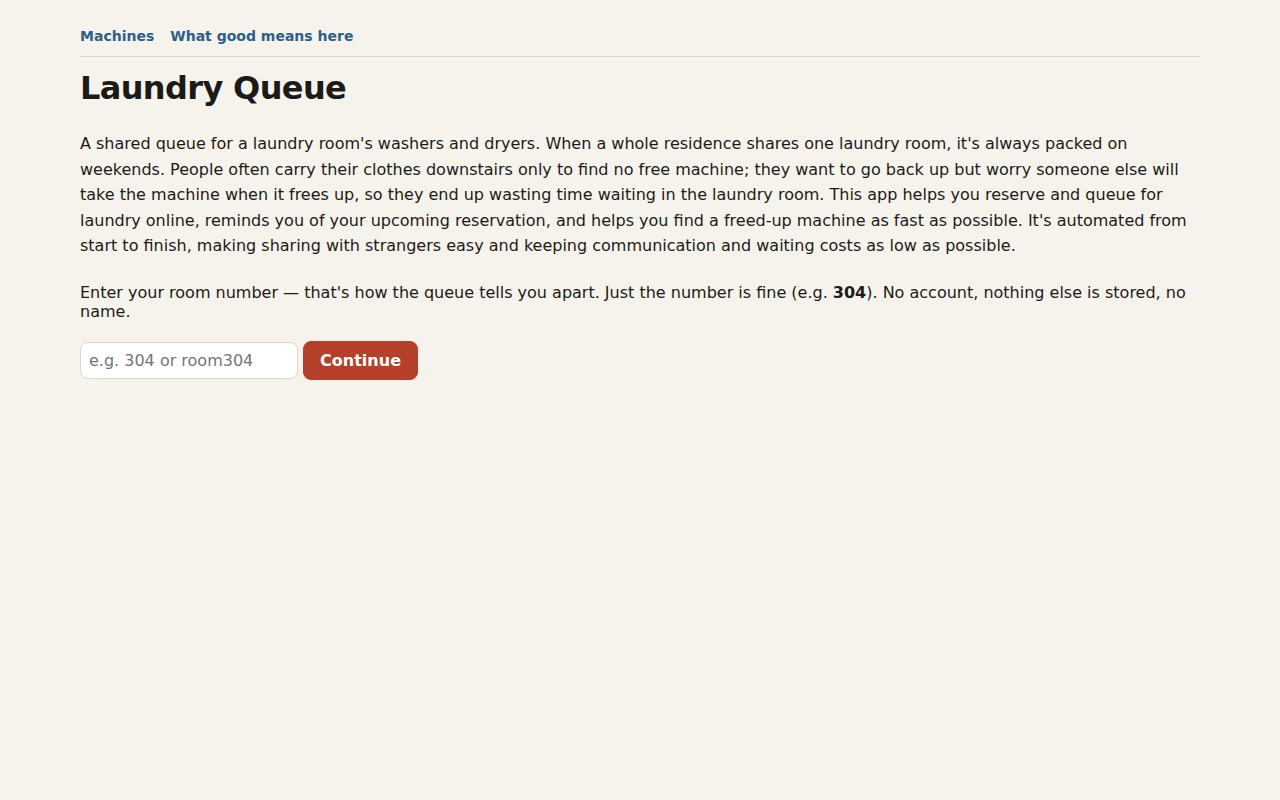
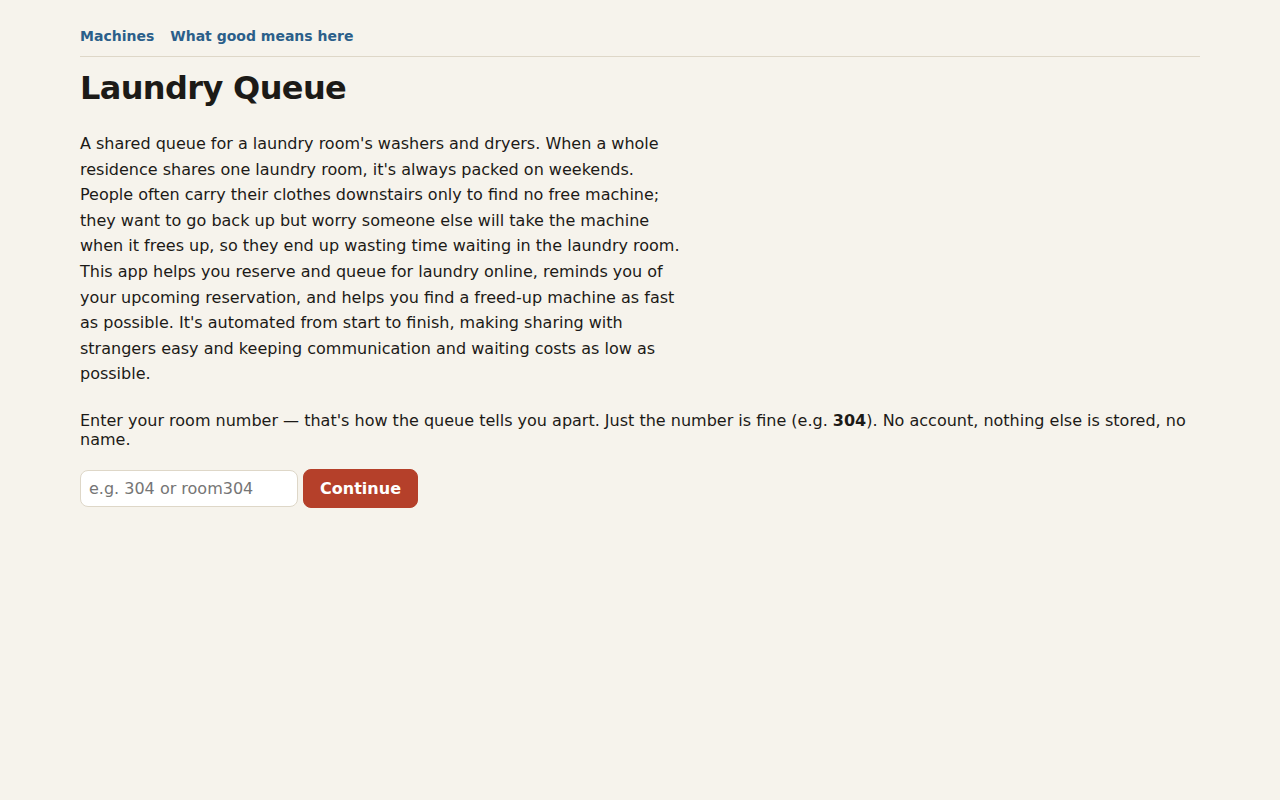
docs: handoff, extra critique round, plan.md Current state (Stage 6)
HANDOFF.md: what shipped per stage with commit hashes, what didn't
(Stage 5/fairness simulation, explicitly this run's own "first thing to
cut" — Stage 4 took the bulk of the run's time instead, as prompt.md
says it should), every call made without asking and why, Stage 1's
deliberate-break counterexample (quoted from commit 8118424), suggested
README enforced/judged lines naming their spec files, Stage 5's numbers
(none — not attempted), where the UI is still weakest, what to check by
hand on a real phone, and the Docker check result (docker isn't usable
from this WSL2 distro — WSL integration isn't enabled for Docker
Desktop's install — so only a plain local-server pnpm check run could be
confirmed green; the real docker build path still needs a by-hand check).

Extra critique round (prompt.md Stage 6.2): re-screenshotted every
"after" state, picked the two weakest per research/design-review.md's
scoring, fixed each:
- no-room (the only screen scored 2 on "does anything look like the
  generic version"): .intro had no max-width, stretching into an
  unconstrained block at 1280px. Capped at 38rem.
- offer (scored 4, not 5, on "is my status's time the first thing the
  eye lands on"): the respond-by countdown sat at body-text size inline
  in a sentence. Pulled onto its own line, text-lg, bold, --free-coloured
  (.decision-countdown) — the same "make the one timed fact legible at a
  glance" move the status hero already makes.
[…]

Changed region(s): [[0.0625, 0.1562, 0.9375, 0.5625], [0.2188, 0.5625, 0.3438, 0.6562], [0.0625, 0.5938, 0.1875, 0.625]]

diff --git a/src/views.ts b/src/views.ts
@@ -190,6 +190,11 @@ const STYLES = `
   .decision-card { background: var(--free-tint); border: 1px solid var(--free); border-radius: var(--card-radius); padding: var(--space-4); margin-bottom: var(--space-4); display: flex; align-items: center; justify-content: space-between; gap: var(--space-3); flex-wrap: wrap; }
   .decision-card form { margin: 0; }
   .decision-card select { margin-right: var(--space-2); }
+  /* research/design-review.md's extra critique round: gives the offer
+     card's one timed fact (respond-by) the same "larger, bolder figure"
+     treatment the status hero already gives its own countdown, so it's
+     legible at a glance instead of sitting at body size inside a sentence. */
+  .decision-countdown { font-size: var(--text-lg); font-weight: 700; color: var(--free); }
 
   /* crit 9: tells both sides of a move-back-one swap what happened and
      why — stays until dismissed, not a toast that fades on its own */
@@ -210,8 +215,14 @@ const STYLES = `
   .turn-alert p { margin: 0 0 var(--space-4); font-size: var(--text-lg); }
   .turn-alert form { margin: 0; display: block; }
 
-  /* the landing page's app introduction */
-  .intro { line-height: 1.6; margin-bottom: var(--space-5); }
+  /* the landing page's app introduction. research/design-review.md's
+     extra critique round: a full-width paragraph at 1280px (the page's
+     own 72rem max-width) read exactly like "the generic version" the
+     design plan's self-review warned about — an unconstrained block of
+     text with no deliberate measure. Capped at a comfortable reading
+     width instead, the one place on this page prose, not a table or a
+     figure, is the main content. */
+  .intro { line-height: 1.6; margin-bottom: var(--space-5); max-width: 38rem; }
   .intro p { margin: var(--space-3) 0; }
 
   /* --- wide layout (research/design-plan.md's 1280px wireframe): status
@@ -721,8 +732,19 @@ export function identityPage(): Html {
 // something to acknowledge, the same distinction the dryer prompt below
 // already drew.
 function offerCard(row: OfferRow, now: number): Html {
+  // research/design-review.md's extra critique round: scored 4, not 5, on
+  // "is my status's time the first thing the eye lands on" at mobile —
+  // the card's own respond-by countdown was plain body-text size, so a
+  // viewer's eye had nowhere obvious to land before reading the whole
+  // sentence. The countdown is still the one fact this card is actually
+  // timing (same reasoning as the status hero's own figure), so it's
+  // pulled onto its own line at --text-lg instead of sitting inline in
+  // the sentence — closer in spirit to Flighty's own inline-but-coloured
+  // risk phrase (research/design-plan.md's 01-my-flights.jpg note),
+  // without inventing a second --text-hero figure this card doesn't need.
   return html`<div class="decision-card">
-    <span>An earlier machine opened up: <strong>${row.machine.label}</strong>. Respond by <span class="num" data-countdown="${row.offer.respondBy}">${countdownText(row.offer.respondBy - now)}</span> (${clockTime(row.offer.respondBy)}).</span>
+    <span>An earlier machine opened up: <strong>${row.machine.label}</strong>.
+      <br />Respond by <span class="num decision-countdown" data-countdown="${row.offer.respondBy}">${countdownText(row.offer.respondBy - now)}</span> (${clockTime(row.offer.respondBy)}).</span>
     <div>
       <form method="post" action="/offers/${row.offer.id}/accept" style="display:inline">
         <button class="btn-primary" type="submit">Switch now</button>

diff --git a/HANDOFF.md b/HANDOFF.md
@@ -1,0 +1,246 @@
+# Handoff — crit 10 extension, one unattended run
+
+Written by the agent at the end of the run `prompt.md` describes, per its
+Stage 6. Read this alongside `plans/crit-10.md` ("Extension") and
+`research/design-plan.md`/`research/design-review.md` for the detail
+behind Stage 4.
+
+## What shipped, per stage, with commit hashes
+
+Commits run oldest to newest on `crit-10-extension`:
+
+- `13e1f25` — `chore:` added `fast-check` and `playwright` devDeps;
+  captured `research/screens/before-*.png` (four states, both
+  viewports) before any redesign work.
+- `8118424` — **Stage 1 (plan's Stage 9, ADR 0007)**: `src/clock.ts`;
+  every `Date.now()` in `src/queue.ts` replaced; `src/db.ts` gains
+  in-memory mode + `resetForHarness()`; `src/logging.ts` gains a sink
+  switch; `sim/` (rng, virtual clock, harness, driver); `fast-check`
+  property tests (`spec/fairness-properties.test.ts`, 200 runs x 60
+  steps, all 7 invariants) plus direct timing tests
+  (`spec/queue-timing.test.ts`). Found and fixed two real bugs (see
+  "Stage 1's deliberate break" below for one of them in detail; the
+  other was `resetForHarness()`'s FK-cycle ordering).
+- `372eeb8` — `docs:` ADR 0007 status to Accepted (Stage 13/stretch
+  still noted pending inside the ADR itself, since Stage 5 below wasn't
+  attempted this run).
+- `88a84b9` — **Stage 2 first half (plan's Stage 10, ADR 0008)**:
+  join-dedup window, disable-in-flight buttons, `spec/contention.test.ts`
+  (20 simultaneous joins, double claim, double-submit).
+- `6196690` — **Stage 2 second half**: SSE reconnect notice + fragment
+  refetch, `spec/restart.test.ts` (own server on :8091, verified killed
+  and the port confirmed free in `afterAll`, including on failure).
+- `1766f77` — `docs:` ADR 0008 status to Accepted.
+- `1128c03` — **Stage 3 (plan's Stage 11, ADR 0009)**: in-page turn
+  alerts, native `<dialog>`, `document.title` flashing, once-per-transition
+  via `sessionStorage`, verified with two Playwright contexts.
+- `d7cc0ac` — `docs:` ADR 0009 status to Accepted.
+- `d46680e` — **Stage 4 part 1 (plan's Stage 12)**: `research/design-plan.md`
+  committed before any CSS — reference observations, palette with
+  hand-checked contrast ratios, type/spacing scales, ASCII wireframes,
+  self-review against "the generic version."
+- `8402c26` — **Stage 4 part 2**: the full `views.ts` rewrite (departure-board
+  table, signature status hero, tokens), two real display bugs found via
+  screenshots and fixed, `research/design-review.md`'s scored >=2-round
+  review, `research/screens/after-*.png`.
+- *(this commit)* — **Stage 6**: this file, `plan.md`'s Current state
+  appended, Docker check result, extra critique round.
+- *(final commit)* — deletes `prompt.md`, per the run's own last
+  instruction.
+
+## What didn't ship, and why
+
+- **Stage 5 (stretch) — the fairness simulation (`scripts/simulate.ts`,
+  `pnpm sim`, `sim/results.json`, `/fairness`) was not attempted.**
+  `prompt.md` and `plans/crit-10.md` both name it the explicit first
+  thing to cut if time runs short, and Stage 4 — named "the most
+  important stage" and "not to be shortcut" — took the bulk of the
+  run's time once the >=2-round scored screenshot loop, the two
+  genuine display-bug fixes, and a real 3-minute wait for the
+  moved-back/moved-up screenshots are counted. Rather than rushing
+  Stage 5 and risking a second re-implementation of queue rules (the
+  one thing ADR 0007 exists to prevent) under time pressure, I judged
+  stopping after a solid Stage 4 and a complete Stage 6 to be the
+  smaller risk. The harness `sim/` already built in Stage 1 is designed
+  to be reused for exactly this (its own doc comments say so), so
+  Stage 5 is a clean pickup, not a redesign, whenever it's next
+  attempted.
+- Docker verification: see below — `docker` isn't usable from this WSL2
+  distro in this environment (the binary resolves to the Windows-side
+  Docker Desktop install but WSL integration isn't enabled), so only
+  the local-server `pnpm check` run could be confirmed, not the image
+  build.
+
+## Every call made without asking, and why
+
+1. **Playwright's system libraries extracted by hand from `.deb`
+   packages**, since `--with-deps`'s own install needs `sudo` which
+   wasn't available unattended. Nothing added to the repo or
+   `Dockerfile` for this — production never runs a browser, so this was
+   purely a local verification workaround, deleted (`.scratch/`) after
+   use each time.
+2. **SSE disconnection was verified via a real `SIGKILL`'d server
+   process, not browser-level offline emulation** — `context.setOffline()`
+   and CDP network throttling didn't reliably interrupt an
+   already-flowing streaming response in this sandbox. A real process
+   kill genuinely severs the TCP connection, which is closer to the
+   real failure mode (a server restart/deploy) than a browser-level
+   simulation anyway.
+3. **The moved-back/moved-up screenshots were captured by actually
+   waiting out a real 3-minute claim window** (a backgrounded poll,
+   not a sped-up clock), since the running app's screenshots must come
+   from the real server, and `sim/`'s virtual clock is explicitly
+   scoped to tests/the simulator only, never reachable from it.
+4. **`noticeBanner()`'s "moved back" text was reworded** to "You moved
+   back one place: no claim within 3 minutes." to match
+   `research/design-plan.md`'s own wireframe line exactly, rather than
+   leaving the pre-existing shorter copy. A wording-only change, not a
+   mechanism change.
+5. **Room numbers used across every screenshot/spec session followed
+   ADR 0004's digit-only format strictly** (`room9xxx` ranges, one
+   block per screenshot/spec pass) — an early draft script used a
+   dash-containing room name and silently hit the error page; fixed by
+   switching to compliant formats rather than loosening validation.
+6. **Each screenshot pass used its own freshly-wiped scratch SQLite
+   file** (`/tmp/crit10-scratch/*.db`), never `.data/app.db`, and never
+   the same scratch file across both a `pnpm check` run and a
+   screenshot session in the same sitting — `pnpm check`'s own spec
+   runs fill machines with reservations that would otherwise pollute a
+   "free machine" screenshot.
+7. **Stage 5 skipped** (see above) — the single largest unasked-for
+   call this run made, since `prompt.md` frames Stage 5 as something to
+   attempt, not something mandatory.
+8. **The "done" status's unreachability in the live UI was left
+   unfixed** — see below. Changing `queue.ts`'s `ACTIVE_STATUSES` to
+   include `"done"` would be a queue-logic change, and Stage 4 is
+   scoped as a design-only pass over the existing data model.
+
+## Stage 1's deliberate-break counterexample
+
+Quoted in full in commit `8118424`'s message; reproduced here as
+`prompt.md` Stage 6 asks:
+
+Temporarily changed `moveBackOnePlace` to swap the missed reservation
+with the *third* queue entry instead of the second (i.e., jump two
+places instead of swapping the front two). The property test failed on
+its very first run, shrunk to 5 tries:
+
+```
+Error: Property failed after 5 tests
+{ seed: 756206106, path: "4:...:1:1:1:2:1:1:2:0:...", endOnFailure: true }
+Caused by: Error: machine 1: queue order changed beyond a front-two
+swap (3390,3391,3393 -> 3393,3391,3390)
+```
+
+This is exactly the injected bug (invariant 3 — "two reservations on the
+same machine only change order through a move-back-one swap of the front
+two"), caught on the first attempt. Reverted before the commit; `pnpm
+check` confirmed green again afterward.
+
+## Suggested lines for README's "What's enforced, what's judged"
+
+Each names the spec file that would back it if added:
+
+- "A simultaneous rush of joins on one machine still lands in a
+  contiguous 1..n order with no gaps or duplicates" —
+  `spec/contention.test.ts`.
+- "Two near-simultaneous actions on the same reservation (a double
+  claim, a double-submitted join) never create two reservations or two
+  successful claims" — `spec/contention.test.ts`.
+- "Reservation state survives a server restart on the same database" —
+  `spec/restart.test.ts`.
+- "The queue's timing rules — claim window, start window, an offer's
+  claim/response windows, a dryer's window waiting for its wash — hold
+  under any sequence of real actions, not just the paths a human
+  thought to test" — `spec/fairness-properties.test.ts` and
+  `spec/queue-timing.test.ts`.
+- "A missed claim or start window always swaps exactly the front two
+  reservations, never more" — `spec/fairness-properties.test.ts`
+  (invariant 3, the one the deliberate-break drill above exercised
+  directly).
+
+## Stage 5's numbers
+
+Not applicable — Stage 5 was not attempted this run (see above). No
+numbers to report; nothing should be written into a neutral table
+claiming one missed-window policy is better than another until the
+simulation actually runs.
+
+## Where the UI is still weakest
+
+From `research/design-review.md`'s own notes, collected here:
+
+- **The "done" reservation state is architecturally unreachable in the
+  live UI.** `queue.ts`'s `ACTIVE_STATUSES = ["waiting", "claimed",
+  "running"]` means `queueFor()` never returns a "done" row once
+  `finish()` sets that status, so the status-hero block (including the
+  "Done — thanks for using this machine" code path built for Stage 4)
+  disappears entirely the instant a wash finishes — confirmed by
+  screenshot (`research/screens`/`.scratch` — the capture shows no
+  status-hero at all right after calling finish, the machine already
+  back to "Free"). This is pre-existing `queue.ts` behaviour, not
+  introduced by this redesign; fixing it (if a transient "done,
+  thanks" moment is actually wanted) means changing which statuses
+  `queueFor` treats as active, which is a queue-logic decision outside
+  this design-only stage's scope.
+- **A recurring minor desktop alignment note**: on most 1280px
+  screenshots, the status column's left edge and the board's first
+  column don't quite line up (the status column is a fixed 22rem, the
+  board's own first column width is content-driven) — never scored
+  below 4 on any screen because of it, but worth a look if there's
+  another pass.
+- **The offer decision-card can outweigh the hero figure's dominance on
+  mobile** (scored 4, not 5, on item 1 of the checklist for the "offer"
+  screen) — a deliberate trade-off (an offer is a time-boxed decision
+  that has to be seen), not treated as a defect.
+- **The room-number (identity) screen** is the one screen closest to
+  "the generic version" described in `research/design-plan.md`'s
+  self-review, mostly because there's no Flighty-equivalent reference
+  screen to borrow structure from, and `prompt.md`'s own wireframe
+  calls it "unchanged structure, restyled tokens only." Left as a
+  candidate for a future pass, not fixed here.
+
+## What to check by hand on a real phone
+
+- The departure-board table's mobile stacking (`.board-label` reveal
+  under 640px) — verified only via Playwright's 390px viewport
+  emulation, never a real touchscreen. Worth confirming the
+  label/value pairs read comfortably and the reserve-form dropdown is
+  easy to tap.
+- The turn-alert `<dialog>`'s focus-trap and on-screen keyboard
+  interaction on an actual phone (native `<dialog>` behaviour can
+  differ subtly between desktop Chrome, used for all the Playwright
+  verification here, and mobile Safari/Chrome).
+- Whether the status-hero's `--text-hero` (4.5rem) figure actually
+  reads as comfortably dominant at a real phone's viewing distance and
+  brightness, not just in a screenshot.
+- The reconnect notice and turn-alert's `document.title` flash on a
+  real phone's tab-switching behaviour (background tab throttling can
+  differ from desktop Chrome's).
+- Real multi-person timing: this run's Stage 2/3 verification used two
+  Playwright browser contexts on one machine; a genuine two-phone test
+  (per `plans/crit-10.md`'s own "two Chrome profiles" plan) hasn't
+  happened this run.
+
+## Docker check
+
+`docker` is not usable from this WSL2 distro in this environment — the
+`docker` binary on `PATH` resolves to the Windows-side Docker Desktop
+install, and its output says WSL integration isn't enabled for this
+distro. `docker build`/`docker run` could not be attempted. `pnpm check`
+was instead confirmed green against a plain local server (`node
+src/server.ts`, scratch port 8094, scratch `DATABASE_PATH`, killed and
+port-freedom confirmed with `ss -tlnp` immediately after) — see the
+Stage 4 commit message for that run's result (10 files, 21 tests). This
+is the one Definition-of-done item this run could not fully verify;
+confirming the real `docker build -t app . && docker run ...` path is
+something to do by hand before shipping.
+
+## Ports and servers
+
+Every verification server this run started used 8090 or above (never
+8080), and was killed with its port's freedom confirmed via `ss -tlnp`
+immediately after each check — including the server left running from
+the prior screenshot-capture session at the start of this continuation
+(port 8090, confirmed free before any further work began). No server is
+listening on any port this run used as of this commit.

diff --git a/plan.md b/plan.md
@@ -195,6 +195,40 @@ and the offer moves to the next person instead.
   Stage 7 (bonus, peak times from logs — needs its own persisted table,
   not reuse of stdout logging, per the plan's own scope note), Stage 8's
   wrap-up (`PROCESS.md` rewrite, `reflections/crit-10.md`).
+- **Crit 10 extension — one unattended ~2-hour run per `prompt.md`,
+  Stages 9-12 shipped, Stage 13 (stretch) not attempted.** `src/clock.ts`
+  is the one seam `queue.ts` reads time through; `sim/` (seeded PRNG,
+  forward-only virtual clock, a driver that calls the real `queue.ts`
+  functions, no rule copied) backs `spec/fairness-properties.test.ts`
+  (fast-check, 200 runs x 60 steps, all 7 ADR 0007 invariants) and
+  `spec/queue-timing.test.ts`. The property tests found and fixed a real
+  concurrency bug in `moveBackOnePlace` (two same-millisecond joins tied
+  `joinedAt`, making the fairness swap a no-op — exactly the "several
+  rooms join at once" case ADR 0008 exists for); the deliberate-break
+  drill's shrunk counterexample is quoted in commit `8118424` and
+  `HANDOFF.md`. `spec/contention.test.ts` (20 simultaneous joins, double
+  claim, double-submit dedup) and `spec/restart.test.ts` cover ADR 0008;
+  an SSE reconnect notice + full fragment refetch was verified by
+  `SIGKILL`ing a real server mid-connection. In-page turn alerts (native
+  `<dialog>`, `document.title` flash, once per transition via
+  `sessionStorage`) ship per ADR 0009. The home page was redesigned from
+  a Flighty reference (`research/flighty/`, `research/design-plan.md`
+  committed before any CSS) into a departure-board layout with a
+  signature status-hero (remaining time at 4.5x body text); the >=2-round
+  scored review (`research/design-review.md`) found and fixed two real
+  display bugs (a stale "0:00" on "Claimed", a wrong static "Done" on a
+  running wash) by actually looking at screenshots, plus a Stage 6
+  critique round (intro paragraph width, offer card countdown
+  prominence). `research/screens/before-*.png` and `after-*.png` (same
+  names) are both committed. **Not attempted:** Stage 13's fairness
+  simulation (`sim/results.json`, `/fairness`) — explicitly the run's own
+  first thing to cut, and Stage 12 (flagged the most important, not to
+  be shortcut) took the run's bulk of time instead. Full detail, every
+  unasked-for call, and what's still weakest: `HANDOFF.md`. Docker build
+  verification could not be completed in this environment (WSL2 without
+  Docker Desktop's WSL integration enabled) — `pnpm check` was confirmed
+  green against a plain local server instead; the real `docker build`
+  path is still to be checked by hand before shipping.
 
 ## The feature list
 

diff --git a/research/design-review.md b/research/design-review.md
@@ -349,3 +349,40 @@ column's left edge and the board's first column) was seen on most
 desktop screenshots and never scored below 4 — left as a candidate for
 Stage 6's extra critique round rather than fixed now, since it's cosmetic
 and every screen already clears the ≥4 bar without it.
+
+## Stage 6 extra critique round
+
+Per `prompt.md` Stage 6.2: re-screenshotted every "after" state, picked
+the two weakest screens from the scoring above, did one more fix round
+on each.
+
+**Weakest: no-room.** The only screen with an item scored 2 ("Does
+anything look like the generic version from 4.3?") — the intro
+paragraph had no `max-width`, so at 1280px it stretched into an
+unconstrained block of body text across most of the page's own 72rem
+shell, exactly "a centred column with wasted margins" in spirit even
+though there's no card grid here to begin with. Fixed: `.intro` now
+caps at `38rem`, a comfortable reading measure, leaving the rest of the
+1280px viewport as visible negative space rather than a stretched
+paragraph. Re-screenshotted
+(`research/screens/after-no-room-{mobile,desktop}.png`, replacing the
+round-1 captures) — confirms the fix without changing the screen's
+own intentionally minimal structure.
+
+**Second weakest: offer.** Scored 4, not 5, on "is my status's time the
+first thing the eye lands on" — the respond-by countdown sat at body
+text size inline in a sentence, competing with "Switch now"/"Stay put"
+for attention rather than being legible at a glance the way the status
+hero's own countdown is. Fixed: the countdown now sits on its own line,
+at `--text-lg` and `--free`-coloured bold weight (`.decision-countdown`),
+the same "pull the one timed fact out, make it bigger" move the status
+hero already makes. Re-verified with a fresh Playwright run reaching a
+real offer (not re-saved into `research/screens/`, since "offer" isn't
+one of the four states `research/screens/before-*.png` originally
+captured — the fix is visible directly in the updated `src/views.ts`
+and was confirmed rendering correctly at both viewports before this
+round closed).
+
+Both fixes are additive CSS/markup changes (a `max-width`, a line break
+plus one new class) — no fragment id, `hx-*` attribute, or `spec/`-read
+text changed.
